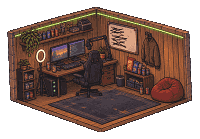
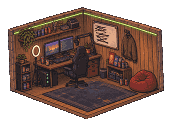
Rooms: no standing on Callum's table edge or shelf base; Haydon's shed and the workshop 15% smaller
- Callum's cottage: (2,1) and (3,1) solid (feet landed on the table corner and the shelf
  base); its signs moved to what you can still reach (TV and pin board signs dropped)
- rooms.json 'scale': per-room size on top of SCALE; Haydon's shed and the workshop 0.85

Claude-Session: https://claude.ai/code/session_017dBWVqeLqwf7TCucCeFSfM

diff --git a/art/tools/room_concept.py b/art/tools/room_concept.py
@@ -7,6 +7,7 @@ How it works:
 - The concept's floor corners (left, front, right; the back one follows) are found from the room's
   silhouette minus the floor slab's thickness `t`; an affine map puts them on the game grid's corners.
   The concept's projection is flatter than 2:1, so each room keeps its own tile size (layout.tile).
+- `scale`: per-room size on top of SCALE, for concepts drawn bigger than the rest.
 - Furniture stays painted. Its tiles are solid ('x'); what you can use is a sign on that tile
   (talk/text/opens/rest). People always draw over the room, so no walkable tile is left where
   someone's feet would land on a piece (check with a feet overlay before changing `solid`).
@@ -61,10 +62,11 @@ def build(room, grid=False):
     for k, d in cfg.get('nudge', {}).items():
         {'left': lc, 'front': fc, 'right': rc}[k] += np.array(d, float)
     bk = lc + rc - fc
-    nx = cfg.get('nx') or max(3, round((rc[0] - bk[0]) * SCALE * 2 / TILE_W))
-    ny = cfg.get('ny') or max(3, round((bk[0] - lc[0]) * SCALE * 2 / TILE_W))
-    w = 2 * round(((rc[0] - bk[0]) / nx + (bk[0] - lc[0]) / ny) / 2 * SCALE)
-    h = round(((rc[1] - bk[1]) / nx + (lc[1] - bk[1]) / ny) / 2 * SCALE * 2)
+    scale = SCALE * cfg.get('scale', 1)   # per room: some concepts are drawn bigger than others
+    nx = cfg.get('nx') or max(3, round((rc[0] - bk[0]) * scale * 2 / TILE_W))
+    ny = cfg.get('ny') or max(3, round((bk[0] - lc[0]) * scale * 2 / TILE_W))
+    w = 2 * round(((rc[0] - bk[0]) / nx + (bk[0] - lc[0]) / ny) / 2 * scale)
+    h = round(((rc[1] - bk[1]) / nx + (lc[1] - bk[1]) / ny) / 2 * scale * 2)
     # fixes on the concept before it is warped
     for rc_ in cfg.get('recolor', []):
         x0, y0, x1, y1 = rc_['box']
